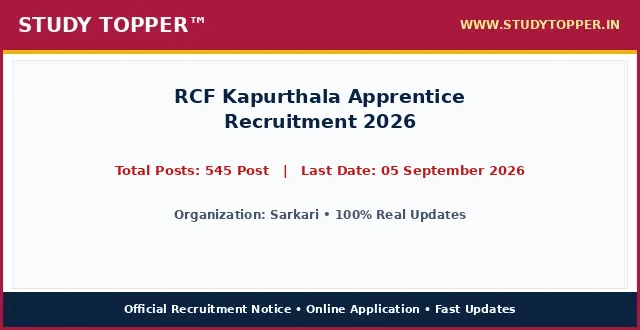
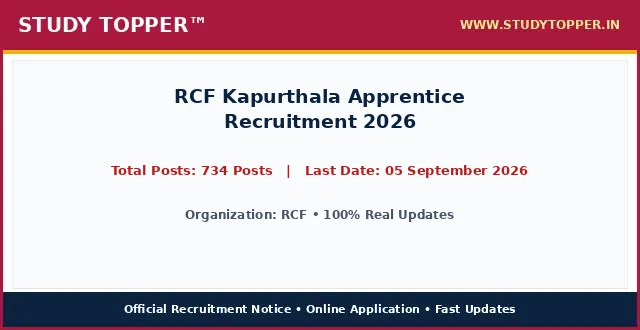
chore(lifecycle): daily auto-sort vacancies and update active dates

Changed region(s): [[0.1562, 0.4848, 0.8438, 0.5455], [0.25, 0.6364, 0.75, 0.6667]]

diff --git a/pages/rcf-kapurthala-apprentice-2026.html b/pages/rcf-kapurthala-apprentice-2026.html
@@ -987,12 +987,12 @@ ul.wp-block-latest-posts a:hover {
 <main class="site-main" id="main">
 <div class="gb-container gb-container-b39c368c">
 <h1 class="gb-headline gb-headline-e52a0102 gb-headline-text" style="font-size: 22px; font-weight: 700; color: #0000cd; text-align: left; margin: 8px 0 4px 0; line-height: 1.3; width: 100%; font-family: '-apple-system, BlinkMacSystemFont, 'Segoe UI', Roboto, 'Helvetica Neue', Arial, sans-serif', Times, serif, Hind, sans-serif;">RCF Kapurthala Apprentice Recruitment 2026</h1>
-<div class="gb-container gb-container-659bd175"><p style="color: #cd0808; font-weight: 700; font-size: 15px; margin: 2px 0 7px 0; text-align: left; font-family: '-apple-system, BlinkMacSystemFont, 'Segoe UI', Roboto, 'Helvetica Neue', Arial, sans-serif', Times, serif, Hind, sans-serif;">Post Date: August 22, 2026 11:48 AM</p></div>
-<p class="gb-headline gb-headline-550ae316 short_Details gb-headline-text" style="width: 100%; max-width: 100%; font-size: 16.8px; line-height: 1.55; color: #000000; text-align: justify; text-justify: inter-word; margin: 8px 0 14px 0; display: block; font-family: '-apple-system, BlinkMacSystemFont, 'Segoe UI', Roboto, 'Helvetica Neue', Arial, sans-serif', Times, serif, Hind, sans-serif;"><strong style="color: #0000cd;">Sarkari</strong> has officially published the recruitment notice <strong style="color: #cd0808;">RCF Kapurthala Apprentice Recruitment 2026</strong> under notification number Official Advt 2026. Online applications are invited for 545 Post across multiple departments and cadre positions. Interested candidates possessing the requisite educational qualifications and falling between 18 Years to 40 Years can complete their online registration before the application deadline of 05 September 2026. Applicants should read the eligibility criteria, category reservation rules, and exam scheme thoroughly before submitting applications.</p>
+<div class="gb-container gb-container-659bd175"><p style="color: #cd0808; font-weight: 700; font-size: 15px; margin: 2px 0 7px 0; text-align: left; font-family: '-apple-system, BlinkMacSystemFont, 'Segoe UI', Roboto, 'Helvetica Neue', Arial, sans-serif', Times, serif, Hind, sans-serif;">Post Date: August 22, 2026 12:41 PM</p></div>
+<p class="gb-headline gb-headline-550ae316 short_Details gb-headline-text" style="width: 100%; max-width: 100%; font-size: 16.8px; line-height: 1.55; color: #000000; text-align: justify; text-justify: inter-word; margin: 8px 0 14px 0; display: block; font-family: '-apple-system, BlinkMacSystemFont, 'Segoe UI', Roboto, 'Helvetica Neue', Arial, sans-serif', Times, serif, Hind, sans-serif;"><strong style="color: #0000cd;">RCF Kapurthala Apprentice</strong> has officially published the recruitment notice <strong style="color: #cd0808;">RCF Kapurthala Apprentice Recruitment 2026</strong> under notification number 2026. Online applications are invited for 734 Posts across multiple departments and cadre positions. Interested candidates possessing the requisite educational qualifications and falling between 18 Years to 40 Years can complete their online registration before the application deadline of 05 September 2026. Applicants should read the eligibility criteria, category reservation rules, and exam scheme thoroughly before submitting applications.</p>
 <div class="gb-container gb-container-9849916c"><div class="social-buttons-compact" style="display: flex; justify-content: flex-start; align-items: center; gap: 10px; margin: 10px 0 16px 0; width: 100%;"><a class="social-btn-compact wa" href="https://whatsapp.com/channel/0029Va9xyz" rel="noopener" style="background-color: #00d084; color: #ffffff; padding: 10px 18px; border-radius: 4px; text-decoration: none; font-weight: bold; font-size: 15.5px; display: inline-flex; align-items: center; justify-content: center; height: auto;" target="_blank">WhatsApp</a><a class="social-btn-compact tg" href="https://t.me/studytopperofficial" rel="noopener" style="background-color: #0088cc; color: #ffffff; padding: 10px 18px; border-radius: 4px; text-decoration: none; font-weight: bold; font-size: 15.5px; display: inline-flex; align-items: center; justify-content: center; height: auto;" target="_blank">Telegram</a></div></div>
 <div class="gb-container gb-container-f58e6ca1" style="border: 2px solid #5b032f; border-radius: 4px; overflow: hidden; margin: 15px 0 20px 0; background-color: #ffffff; width: 100%; box-sizing: border-box;">
 <h2 class="gb-headline gb-headline-2ca5a791 gb-headline-text" style="font-size: 16px; font-weight: 700; text-align: center; color: #ef0303; line-height: 1.3; padding: 6px 4px; margin: 0; background: #ffffff; font-family: '-apple-system, BlinkMacSystemFont, 'Segoe UI', Roboto, 'Helvetica Neue', Arial, sans-serif', Times, serif, Hind, sans-serif;">RCF Kapurthala Apprentice Recruitment 2026 &ndash; Latest Details &amp; Updates</h2>
-<h3 class="gb-headline gb-headline-7d5f86e8 gb-headline-text" style="font-size: 16px; font-weight: 600; text-align: center; color: #009703; line-height: 1.25; margin: 0; padding: 2px 4px 6px 4px; background: #ffffff; font-family: '-apple-system, BlinkMacSystemFont, 'Segoe UI', Roboto, 'Helvetica Neue', Arial, sans-serif', Times, serif, Hind, sans-serif;">Sarkari : Details &amp; Summary</h3>
+<h3 class="gb-headline gb-headline-7d5f86e8 gb-headline-text" style="font-size: 16px; font-weight: 600; text-align: center; color: #009703; line-height: 1.25; margin: 0; padding: 2px 4px 6px 4px; background: #ffffff; font-family: '-apple-system, BlinkMacSystemFont, 'Segoe UI', Roboto, 'Helvetica Neue', Arial, sans-serif', Times, serif, Hind, sans-serif;">RCF Kapurthala Apprentice : Details &amp; Summary</h3>
 <p class="gb-headline gb-headline-79adf169 gb-headline-text" style="margin: 0 0 6px 0; font-family: '-apple-system, BlinkMacSystemFont, 'Segoe UI', Roboto, 'Helvetica Neue', Arial, sans-serif', Times, serif, Hind, sans-serif; text-align: center; font-size: 18px; font-weight: 700;"><a href="/" style="color: #0000ff; text-decoration: underline;">StudyTopper.in</a></p>
 
 <style id="st-post-boxes-responsive-css">
@@ -1025,7 +1025,7 @@ ul.wp-block-latest-posts a:hover {
     <div style="background-color: #5b032f; color: #ffffff; padding: 8px 10px; font-size: 20px; font-weight: 700; text-align: center; font-family: '-apple-system, BlinkMacSystemFont, 'Segoe UI', Roboto, 'Helvetica Neue', Arial, sans-serif', Times, serif, Hind, sans-serif;">Important Dates</div>
     <div style="padding: 12px 14px; background-color: #ffffff;">
       <ul style="padding-left: 20px; margin: 0; list-style-type: disc; text-align: left; font-size: 14pt; line-height: 1.6; font-family: '-apple-system, BlinkMacSystemFont, 'Segoe UI', Roboto, 'Helvetica Neue', Arial, sans-serif', Times, serif, Hind, sans-serif;">
-        
+        <li><span style="font-size: 14pt;">Application Begin : <strong>As per Official Notification</strong></span></li><li><span style="font-size: 14pt;">Last Date for Apply Online : <span style="color: #ff0000;"><strong>05 September 2026</strong></span></span></li><li><span style="font-size: 14pt;">Pay Exam Fee Last Date : <span style="color: #ff0000;"><strong>05 September 2026</strong></span></span></li><li><span style="font-size: 14pt;">Exam Date : <strong>As per Schedule</strong></span></li><li><span style="font-size: 14pt;">Admit Card Available : <strong>Before Examination</strong></span></li>
       </ul>
     </div>
   </div>
@@ -1034,7 +1034,7 @@ ul.wp-block-latest-posts a:hover {
     <div style="background-color: #5b032f; color: #ffffff; padding: 8px 10px; font-size: 20px; font-weight: 700; text-align: center; font-family: '-apple-system, BlinkMacSystemFont, 'Segoe UI', Roboto, 'Helvetica Neue', Arial, sans-serif', Times, serif, Hind, sans-serif;">Application Fee</div>
     <div style="padding: 12px 14px; background-color: #ffffff;">
       <ul style="padding-left: 20px; margin: 0; list-style-type: disc; text-align: left; font-size: 14pt; line-height: 1.6; font-family: '-apple-system, BlinkMacSystemFont, 'Segoe UI', Roboto, 'Helvetica Neue', Arial, sans-serif', Times, serif, Hind, sans-serif;">
-        <li><span style="font-size: 14pt;">Bihar Police BPSSC Sub Inspector SI Prohibition Result 2026 Advt. No. : <strong>03/2026</strong></span></li><li><span style="font-size: 14pt;">UP Scholarship Online Form 2026 : <strong>2027</strong></span></li>
+        <li><span style="font-size: 14pt;">General / OBC / EWS : <strong>Check Official Notification</strong></span></li><li><span style="font-size: 14pt;">SC / ST / PH : <strong>Check Official Notification</strong></span></li><li><span style="font-size: 14pt;">Payment Mode : <strong>Online Fee Mode via Net Banking, Debit/Credit Card or Offline Challan</strong></span></li>
       </ul>
       <div style="margin-top: 10px; font-size: 14pt; line-height: 1.5; color: #000000; border-top: 1px dashed #ccc; padding-top: 8px; font-family: '-apple-system, BlinkMacSystemFont, 'Segoe UI', Roboto, 'Helvetica Neue', Arial, sans-serif', Times, serif, Hind, sans-serif;">
         <strong>Mode of Payment / Access:</strong> Online via Net Banking, Debit Card, Credit Card, UPI or Free Candidate Portal.
@@ -1047,10 +1047,10 @@ ul.wp-block-latest-posts a:hover {
 <div class="st-grid-row" style="display: flex; flex-wrap: wrap; width: 100%; border-top: 2px solid #5b032f; margin: 0; padding: 0; box-sizing: border-box;">
   <!-- Left Col: Age Limits -->
   <div class="st-col-half st-col-border-right" style="box-sizing: border-box; vertical-align: top;">
-    <div style="background-color: #046132; color: #ffffff; padding: 8px 10px; font-size: 17px; font-weight: 700; text-align: center; font-family: '-apple-system, BlinkMacSystemFont, 'Segoe UI', Roboto, 'Helvetica Neue', Arial, sans-serif', Times, serif, Hind, sans-serif;">Sarkari : Age Limits As On 01 August 2026</div>
+    <div style="background-color: #046132; color: #ffffff; padding: 8px 10px; font-size: 17px; font-weight: 700; text-align: center; font-family: '-apple-system, BlinkMacSystemFont, 'Segoe UI', Roboto, 'Helvetica Neue', Arial, sans-serif', Times, serif, Hind, sans-serif;">RCF Kapurthala Apprentice : Age Limits As On 01/08/2026</div>
     <div style="padding: 12px 14px; background-color: #ffffff;">
       <ul style="padding-left: 20px; margin: 0; list-style-type: disc; text-align: left; font-size: 14pt; line-height: 1.6; font-family: '-apple-system, BlinkMacSystemFont, 'Segoe UI', Roboto, 'Helvetica Neue', Arial, sans-serif', Times, serif, Hind, sans-serif;">
-        
+        <li><span style="font-size: 14pt;">Minimum Age : <strong>18 Years (As per post rules)</strong></span></li><li><span style="font-size: 14pt;">Maximum Age : <strong>40 Years (As per post rules)</strong></span></li><li><span style="font-size: 14pt;">Age Relaxation : <strong>Age Relaxation Extra as per RCF Recruitment Rules.</strong></span></li>
       </ul>
     </div>
   </div>
@@ -1058,7 +1058,7 @@ ul.wp-block-latest-posts a:hover {
   <div class="st-col-half" style="box-sizing: border-box; vertical-align: top;">
     <div style="background-color: #f53c00; color: #ffffff; padding: 8px 10px; font-size: 20px; font-weight: 700; text-align: center; font-family: '-apple-system, BlinkMacSystemFont, 'Segoe UI', Roboto, 'Helvetica Neue', Arial, sans-serif', Times, serif, Hind, sans-serif;">Total Post</div>
     <div style="padding: 24px 10px; background-color: #ffffff; text-align: center;">
-      <span style="font-size: 28px; font-weight: 800; color: #000000; font-family: '-apple-system, BlinkMacSystemFont, 'Segoe UI', Roboto, 'Helvetica Neue', Arial, sans-serif', Times, serif, Hind, sans-serif;">545 Post</span>
+      <span style="font-size: 28px; font-weight: 800; color: #000000; font-family: '-apple-system, BlinkMacSystemFont, 'Segoe UI', Roboto, 'Helvetica Neue', Arial, sans-serif', Times, serif, Hind, sans-serif;">734 Posts</span>
     </div>
   </div>
 </div>
@@ -1070,7 +1070,19 @@ ul.wp-block-latest-posts a:hover {
 <div class="gb-container gb-container-ec1f6e4c">
 <h2 class="gb-headline gb-headline-c7683bda gb-headline-text" style="font-size: 24px; font-weight: 800; text-align: center; color: #ef0303; line-height: 1.35; margin: 20px 0 12px 0; padding: 6px 4px; font-family: '-apple-system, BlinkMacSystemFont, 'Segoe UI', Roboto, 'Helvetica Neue', Arial, sans-serif', Times, serif, Hind, sans-serif;">RCF Kapurthala Apprentice Recruitment 2026 : Key Overview &amp; Matrix</h2>
 <div class="gb-headline gb-headline-60ccea19 gb-headline-text">
-
+<table style="border-collapse: collapse; width: 100%; height: 150px;">
+<tbody>
+<tr style="height: 25px;">
+<td colspan="2" style="width: 50%; text-align: center; height: 25px;"><span style="background-color: #000080; color: #ffffff; font-size: 14pt;"><strong> RCF Kapurthala Apprentice : Category Wise Vacancy Details </strong></span></td>
+</tr>
+<tr style="height: 25px;">
+<td style="width: 50%; height: 25px; text-align: center;"><span style="font-size: 14pt;"><strong>Category / Particulars</strong></span></td>
+<td style="width: 50%; height: 25px; text-align: center;"><span style="font-size: 14pt;"><strong>Count / Status</strong></span></td>
+</tr>
+<tr><td style="text-align: center;">General</td><td style="text-align: center; font-weight: normal; color: inherit;">368</td></tr><tr><td style="text-align: center;">OBC</td><td style="text-align: center; font-weight: normal; color: inherit;">198</td></tr><tr><td style="text-align: center;">SC</td><td style="text-align: center; font-weight: normal; color: inherit;">111</td></tr><tr><td style="text-align: center;">ST</td><td style="text-align: center; font-weight: normal; color: inherit;">57</td></tr>
+</tbody>
+</table>
+<p>&nbsp;</p>
 <table style="border-collapse: collapse; width: 100%;">
 <tbody>
 <tr>
@@ -1079,9 +1091,9 @@ ul.wp-block-latest-posts a:hover {
 <th style="background-color: #f53c00; color: #ffffff; padding: 6px 10px; text-align: center; border: 1px solid #d35400; font-size: 15px; font-weight: 700; font-family: '-apple-system, BlinkMacSystemFont, 'Segoe UI', Roboto, 'Helvetica Neue', Arial, sans-serif', Times, serif, Hind, sans-serif;">Eligibility Criteria</th>
 </tr>
 <tr>
-<td style="padding: 8px; border: 1px solid #ddd; font-weight: bold;">Sarkari Recruitment</td>
-<td style="padding: 8px; border: 1px solid #ddd; text-align: center; font-weight: bold;">545 Post</td>
-<td style="padding: 8px; border: 1px solid #ddd;">Please refer to the official notification linked below for detailed educational qualifications.</td>
+<td style="padding: 8px; border: 1px solid #ddd; font-weight: bold;">RCF RCF Kapurthala Apprentice Recruitment 2026</td>
+<td style="padding: 8px; border: 1px solid #ddd; text-align: center; font-weight: bold;">734 Posts</td>
+<td style="padding: 8px; border: 1px solid #ddd;">Passed relevant Educational Qualification from Any Recognized Board / University in India. Read full official notification for post-wise details.</td>
 </tr>
 </tbody>
 </table>
@@ -1093,10 +1105,10 @@ ul.wp-block-latest-posts a:hover {
 <table style="border-collapse: collapse; width: 100%;">
 <tbody>
 <tr>
-<td style="width: 100%; text-align: center;"><span style="background-color: #000080; color: #ffffff; font-size: 14pt; font-weight: bold; display: block; padding: 6px;"> How to Fill Sarkari Online Application Form </span></td>
+<td style="width: 100%; text-align: center;"><span style="background-color: #000080; color: #ffffff; font-size: 14pt; font-weight: bold; display: block; padding: 6px;"> How to Fill RCF Kapurthala Apprentice Online Application Form </span></td>
 </tr>
 <tr>
-<td style="width: 100%;"><ol style="margin:0; padding-left:18px; text-align: left !important; list-style-position: outside !important"><li style="margin-bottom:6px; text-align: left !important;">Read the official recruitment notification carefully before applying.</li><li style="margin-bottom:6px; text-align: left !important;">Keep all basic documents ready: ID Proof, Address Details, Basic Details.</li><li style="margin-bottom:6px; text-align: left !important;">Ready your scanned documents like Photo, Signature, ID Proof, etc.</li><li style="margin-bottom:6px; text-align: left !important;">Click on the 'Apply Online' link given in the Important Links section below.</li><li style="margin-bottom:6px; text-align: left !important;">Fill out all the columns in the application form accurately.</li><li style="margin-bottom:6px; text-align: left !important;">Pay the required application fee if applicable.</li><li style="margin-bottom:6px; text-align: left !important;">Take a printout of the final submitted application form.</li><li style="margin-bottom:6px; text-align: left !important;">Resize candidate photograph and signature accurately using the <a href="https://indtool.in" rel="noopener" target="_blank"><strong>StudyTopper Tools</strong></a> image resizer at indtool.in.</li></ol></td>
+<td style="width: 100%;"><ol style="margin:0; padding-left:18px; text-align: left !important; list-style-position: outside !important"><li style="margin-bottom:6px; text-align: left !important;">Candidate must read the complete official notification issued by RCF before applying.</li><li style="margin-bottom:6px; text-align: left !important;">Collect and verify all essential documents including Educational Proof, ID Proof, Address Details, and Basic Details.</li><li style="margin-bottom:6px; text-align: left !important;">Scan all necessary documents accurately: Passport Size Photograph, Signature, ID Proof, and Category Certificate.</li><li style="margin-bottom:6px; text-align: left !important;">Click on the 'Apply Online' link given in the Important Links section below on StudyTopper.</li><li style="margin-bottom:6px; text-align: left !important;">Fill all required personal, educational, and communication details in the application form carefully.</li><li style="margin-bottom:6px; text-align: left !important;">Review the application form preview thoroughly before final submission.</li><li style="margin-bottom:6px; text-align: left !important;">Pay the prescribed examination fee through online payment gateway if applicable.</li><li style="margin-bottom:6px; text-align: left !important;">Take a clean printout of the final submitted application form for future reference.</li><li style="margin-bottom:6px; text-align: left !important;">Resize candidate photograph and signature accurately using the <a href="https://indtool.in" rel="noopener" target="_blank"><strong>StudyTopper Tools</strong></a> image resizer at indtool.in.</li></ol></td>
 </tr>
 </tbody>
 </table>
@@ -1104,7 +1116,7 @@ ul.wp-block-latest-posts a:hover {
 <table style="border-collapse: collapse; width: 100%;">
 <tbody>
 <tr>
-<td style="width: 100%; text-align: center;"><span style="background-color: #000080; color: #ffffff; font-size: 14pt;"><strong><span style="color: #ffffff;"> Sarkari Recruitment 2026 : Mode Of Selection </span></strong></span></td>
+<td style="width: 100%; text-align: center;"><span style="background-color: #000080; color: #ffffff; font-size: 14pt;"><strong><span style="color: #ffffff;"> RCF Kapurthala Apprentice Recruitment 2026 : Mode Of Selection </span></strong></span></td>
 </tr>
 <tr>
 <td style="width: 100%;">
@@ -1144,10 +1156,26 @@ ul.wp-block-latest-posts a:hover {
 
 <tr style="border-bottom: 1px solid #000000; background-color: #fff37a;">
 <td style="width: 50%; padding: 14px 16px; border-right: 1px solid #000000; text-align: center;">
+<span style="font-size: 19px; font-weight: 800; color: #000000; font-family: '-apple-system, BlinkMacSystemFont, 'Segoe UI', Roboto, 'Helvetica Neue', Arial, sans-serif', Times, serif, Hind, sans-serif;">Join Our WhatsApp Channel</span>
+</td>
+<td style="width: 50%; padding: 14px 16px; text-align: center;">
+<span style="font-size: 20px; font-weight: 800; font-family: '-apple-system, BlinkMacSystemFont, 'Segoe UI', Roboto, 'Helvetica Neue', Arial, sans-serif', Times, serif, Hind, sans-serif;"><a href="https://whatsapp.com/channel/0029VaAbQf01NCrYADMLt00L" aria-label="Click Here for Join Our WhatsApp Channel - RCF Kapurthala Apprentice Recruitment 2026" rel="noopener noreferrer" style="color: #0000ef; font-weight: 800; text-decoration: none;" target="_blank">Click Here</a></span>
+</td>
+</tr>
+<tr style="border-bottom: 1px solid #000000; background-color: #fff37a;">
+<td style="width: 50%; padding: 14px 16px; border-right: 1px solid #000000; text-align: center;">
+<span style="font-size: 19px; font-weight: 800; color: #000000; font-family: '-apple-system, BlinkMacSystemFont, 'Segoe UI', Roboto, 'Helvetica Neue', Arial, sans-serif', Times, serif, Hind, sans-serif;">Join Our Telegram Channel</span>
+</td>
+<td style="width: 50%; padding: 14px 16px; text-align: center;">
+<span style="font-size: 20px; font-weight: 800; font-family: '-apple-system, BlinkMacSystemFont, 'Segoe UI', Roboto, 'Helvetica Neue', Arial, sans-serif', Times, serif, Hind, sans-serif;"><a href="https://t.me/SarkariExam_info" aria-label="Click Here for Join Our Telegram Channel - RCF Kapurthala Apprentice Recruitment 2026" rel="noopener noreferrer" style="color: #0000ef; font-weight: 800; text-decoration: none;" target="_blank">Click Here</a></span>
+</td>
+</tr>
+<tr style="border-bottom: 1px solid #000000; background-color: #fff37a;">
+<td style="width: 50%; padding: 14px 16px; border-right: 1px solid #000000; text-align: center;">
 <span style="font-size: 19px; font-weight: 800; color: #000000; font-family: '-apple-system, BlinkMacSystemFont, 'Segoe UI', Roboto, 'Helvetica Neue', Arial, sans-serif', Times, serif, Hind, sans-serif;">Apply Online Link</span>
 </td>
 <td style="width: 50%; padding: 14px 16px; text-align: center;">
-<span style="font-size: 20px; font-weight: 800; font-family: '-apple-system, BlinkMacSystemFont, 'Segoe UI', Roboto, 'Helvetica Neue', Arial, sans-serif', Times, serif, Hind, sans-serif;"><a href="https://www.sarkariresult.com/2026/mpesb-group2-subgroup-4-aug26/" aria-label="Click Here for Apply Online Link - RCF Kapurthala Apprentice Recruitment 2026" rel="noopener noreferrer" style="color: #0000ef; font-weight: 800; text-decoration: none;" target="_blank">Click Here</a></span>
+<span style="font-size: 20px; font-weight: 800; font-family: '-apple-system, BlinkMacSystemFont, 'Segoe UI', Roboto, 'Helvetica Neue', Arial, sans-serif', Times, serif, Hind, sans-serif;"><a href="https://pardarsy.railnet.gov.in/apprentice-2026/" aria-label="Click Here for Apply Online Link - RCF Kapurthala Apprentice Recruitment 2026" rel="noopener noreferrer" style="color: #0000ef; font-weight: 800; text-decoration: none;" target="_blank">Click Here</a></span>
 </td>
 </tr>
 <tr style="border-bottom: 1px solid #000000; background-color: #fff37a;">
@@ -1155,15 +1183,7 @@ ul.wp-block-latest-posts a:hover {
 <span style="font-size: 19px; font-weight: 800; color: #000000; font-family: '-apple-system, BlinkMacSystemFont, 'Segoe UI', Roboto, 'Helvetica Neue', Arial, sans-serif', Times, serif, Hind, sans-serif;">Check Official Notification</span>
 </td>
 <td style="width: 50%; padding: 14px 16px; text-align: center;">
-<span style="font-size: 20px; font-weight: 800; font-family: '-apple-system, BlinkMacSystemFont, 'Segoe UI', Roboto, 'Helvetica Neue', Arial, sans-serif', Times, serif, Hind, sans-serif;"><a href="" aria-label="Click Here for Check Official Notification - RCF Kapurthala Apprentice Recruitment 2026" rel="noopener noreferrer" style="color: #0000ef; font-weight: 800; text-decoration: none;" target="_blank">Click Here</a></span>
-</td>
-</tr>
-<tr style="border-bottom: 1px solid #000000; background-color: #fff37a;">
-<td style="width: 50%; padding: 14px 16px; border-right: 1px solid #000000; text-align: center;">
-<span style="font-size: 19px; font-weight: 800; color: #000000; font-family: '-apple-system, BlinkMacSystemFont, 'Segoe UI', Roboto, 'Helvetica Neue', Arial, sans-serif', Times, serif, Hind, sans-serif;">Photo / Sign Resizer Tool</span>
-</td>
-<td style="width: 50%; padding: 14px 16px; text-align: center;">
-<span style="font-size: 20px; font-weight: 800; font-family: '-apple-system, BlinkMacSystemFont, 'Segoe UI', Roboto, 'Helvetica Neue', Arial, sans-serif', Times, serif, Hind, sans-serif;"><a href="https://indtool.in" aria-label="Click Here for Photo / Sign Resizer Tool - RCF Kapurthala Apprentice Recruitment 2026" rel="noopener noreferrer" style="color: #0000ef; font-weight: 800; text-decoration: none;" target="_blank">Click Here</a></span>
+<span style="font-size: 20px; font-weight: 800; font-family: '-apple-system, BlinkMacSystemFont, 'Segoe UI', Roboto, 'Helvetica Neue', Arial, sans-serif', Times, serif, Hind, sans-serif;"><a href="https://rcf.indianrailways.gov.in/uploads/files/act-app/not-act-app-2026.pdf" aria-label="Click Here for Check Official Notification - RCF Kapurthala Apprentice Recruitment 2026" rel="noopener noreferrer" style="color: #0000ef; font-weight: 800; text-decoration: none;" target="_blank">Click Here</a></span>
 </td>
 </tr>
 <tr style="border-bottom: 1px solid #000000; background-color: #fff37a;">
@@ -1171,15 +1191,55 @@ ul.wp-block-latest-posts a:hover {
 <span style="font-size: 19px; font-weight: 800; color: #000000; font-family: '-apple-system, BlinkMacSystemFont, 'Segoe UI', Roboto, 'Helvetica Neue', Arial, sans-serif', Times, serif, Hind, sans-serif;">Check Sarkari Result</span>
 </td>
 <td style="width: 50%; padding: 14px 16px; text-align: center;">
-<span style="font-size: 20px; font-weight: 800; font-family: '-apple-system, BlinkMacSystemFont, 'Segoe UI', Roboto, 'Helvetica Neue', Arial, sans-serif', Times, serif, Hind, sans-serif;"><a href="/" aria-label="Click Here for Check Sarkari Result - RCF Kapurthala Apprentice Recruitment 2026" rel="noopener noreferrer" style="color: #0000ef; font-weight: 800; text-decoration: none;" >Click Here</a></span>
+<span style="font-size: 20px; font-weight: 800; font-family: '-apple-system, BlinkMacSystemFont, 'Segoe UI', Roboto, 'Helvetica Neue', Arial, sans-serif', Times, serif, Hind, sans-serif;"><a href="https://sarkariresult.com.cm/" aria-label="Click Here for Check Sarkari Result - RCF Kapurthala Apprentice Recruitment 2026" rel="noopener noreferrer" style="color: #0000ef; font-weight: 800; text-decoration: none;" target="_blank">Click Here</a></span>
+</td>
+</tr>
+<tr style="border-bottom: 1px solid #000000; background-color: #fff37a;">
+<td style="width: 50%; padding: 14px 16px; border-right: 1px solid #000000; text-align: center;">
+<span style="font-size: 19px; font-weight: 800; color: #000000; font-family: '-apple-system, BlinkMacSystemFont, 'Segoe UI', Roboto, 'Helvetica Neue', Arial, sans-serif', Times, serif, Hind, sans-serif;">RCF Official Website</span>
+</td>
+<td style="width: 50%; padding: 14px 16px; text-align: center;">
+<span style="font-size: 20px; font-weight: 800; font-family: '-apple-system, BlinkMacSystemFont, 'Segoe UI', Roboto, 'Helvetica Neue', Arial, sans-serif', Times, serif, Hind, sans-serif;"><a href="http://www.rcf.indianrailways.gov.in/" aria-label="Click Here for RCF Official Website - RCF Kapurthala Apprentice Recruitment 2026" rel="noopener noreferrer" style="color: #0000ef; font-weight: 800; text-decoration: none;" target="_blank">Click Here</a></span>
+</td>
+</tr>
+<tr style="border-bottom: 1px solid #000000; background-color: #fff37a;">
+<td style="width: 50%; padding: 14px 16px; border-right: 1px solid #000000; text-align: center;">
+<span style="font-size: 19px; font-weight: 800; color: #000000; font-family: '-apple-system, BlinkMacSystemFont, 'Segoe UI', Roboto, 'Helvetica Neue', Arial, sans-serif', Times, serif, Hind, sans-serif;">Latest Posts Haryana HTET Score Card 2026 – Out SSC Delhi Police Constable (Executive) PE & MT Notice 2026 UPSC CDS-II Final Result With Marks 2026 IDBI JAM Final Result 2026 Railway RRB ALP Application Status 2026 – Out</span>
+</td>
+<td style="width: 50%; padding: 14px 16px; text-align: center;">
+<span style="font-size: 20px; font-weight: 800; font-family: '-apple-system, BlinkMacSystemFont, 'Segoe UI', Roboto, 'Helvetica Neue', Arial, sans-serif', Times, serif, Hind, sans-serif;"><a href="https://sarkariresult.com.cm/ssc-delhi-police-constable-executive-2026/" aria-label="Click Here for Latest Posts Haryana HTET Score Card 2026 – Out SSC Delhi Police Constable (Executive) PE & MT Notice 2026 UPSC CDS-II Final Result With Marks 2026 IDBI JAM Final Result 2026 Railway RRB ALP Application Status 2026 – Out - RCF Kapurthala Apprentice Recruitment 2026" rel="noopener noreferrer" style="color: #0000ef; font-weight: 800; text-decoration: none;" target="_blank">Click Here</a></span>
+</td>
+</tr>
+<tr style="border-bottom: 1px solid #000000; background-color: #fff37a;">
+<td style="width: 50%; padding: 14px 16px; border-right: 1px solid #000000; text-align: center;">
+<span style="font-size: 19px; font-weight: 800; color: #000000; font-family: '-apple-system, BlinkMacSystemFont, 'Segoe UI', Roboto, 'Helvetica Neue', Arial, sans-serif', Times, serif, Hind, sans-serif;">Latest Posts Haryana HTET Score Card 2026 – Out SSC Delhi Police Constable (Executive) PE & MT Notice 2026 UPSC CDS-II Final Result With Marks 2026 IDBI JAM Final Result 2026 Railway RRB ALP Application Status 2026 – Out</span>
+</td>
+<td style="width: 50%; padding: 14px 16px; text-align: center;">
+<span style="font-size: 20px; font-weight: 800; font-family: '-apple-system, BlinkMacSystemFont, 'Segoe UI', Roboto, 'Helvetica Neue', Arial, sans-serif', Times, serif, Hind, sans-serif;"><a href="https://sarkariresult.com.cm/ssc-selection-phase-14-2026/" aria-label="Click Here for Latest Posts Haryana HTET Score Card 2026 – Out SSC Delhi Police Constable (Executive) PE & MT Notice 2026 UPSC CDS-II Final Result With Marks 2026 IDBI JAM Final Result 2026 Railway RRB ALP Application Status 2026 – Out - RCF Kapurthala Apprentice Recruitment 2026" rel="noopener noreferrer" style="color: #0000ef; font-weight: 800; text-decoration: none;" target="_blank">Click Here</a></span>
+</td>
+</tr>
+<tr style="border-bottom: 1px solid #000000; background-color: #fff37a;">
+<td style="width: 50%; padding: 14px 16px; border-right: 1px solid #000000; text-align: center;">
+<span style="font-size: 19px; font-weight: 800; color: #000000; font-family: '-apple-system, BlinkMacSystemFont, 'Segoe UI', Roboto, 'Helvetica Neue', Arial, sans-serif', Times, serif, Hind, sans-serif;">Latest Posts Haryana HTET Score Card 2026 – Out SSC Delhi Police Constable (Executive) PE & MT Notice 2026 UPSC CDS-II Final Result With Marks 2026 IDBI JAM Final Result 2026 Railway RRB ALP Application Status 2026 – Out</span>
+</td>
+<td style="width: 50%; padding: 14px 16px; text-align: center;">
+<span style="font-size: 20px; font-weight: 800; font-family: '-apple-system, BlinkMacSystemFont, 'Segoe UI', Roboto, 'Helvetica Neue', Arial, sans-serif', Times, serif, Hind, sans-serif;"><a href="https://sarkariresult.com.cm/upsssc-stenographer-2025/" aria-label="Click Here for Latest Posts Haryana HTET Score Card 2026 – Out SSC Delhi Police Constable (Executive) PE & MT Notice 2026 UPSC CDS-II Final Result With Marks 2026 IDBI JAM Final Result 2026 Railway RRB ALP Application Status 2026 – Out - RCF Kapurthala Apprentice Recruitment 2026" rel="noopener noreferrer" style="color: #0000ef; font-weight: 800; text-decoration: none;" target="_blank">Click Here</a></span>
+</td>
+</tr>
+<tr style="border-bottom: 1px solid #000000; background-color: #fff37a;">
+<td style="width: 50%; padding: 14px 16px; border-right: 1px solid #000000; text-align: center;">
+<span style="font-size: 19px; font-weight: 800; color: #000000; font-family: '-apple-system, BlinkMacSystemFont, 'Segoe UI', Roboto, 'Helvetica Neue', Arial, sans-serif', Times, serif, Hind, sans-serif;">Latest Posts Haryana HTET Score Card 2026 – Out SSC Delhi Police Constable (Executive) PE & MT Notice 2026 UPSC CDS-II Final Result With Marks 2026 IDBI JAM Final Result 2026 Railway RRB ALP Application Status 2026 – Out</span>
+</td>
+<td style="width: 50%; padding: 14px 16px; text-align: center;">
+<span style="font-size: 20px; font-weight: 800; font-family: '-apple-system, BlinkMacSystemFont, 'Segoe UI', Roboto, 'Helvetica Neue', Arial, sans-serif', Times, serif, Hind, sans-serif;"><a href="https://sarkariresult.com.cm/railway-rrb-group-d-level-1-recruitment-2026-online/" aria-label="Click Here for Latest Posts Haryana HTET Score Card 2026 – Out SSC Delhi Police Constable (Executive) PE & MT Notice 2026 UPSC CDS-II Final Result With Marks 2026 IDBI JAM Final Result 2026 Railway RRB ALP Application Status 2026 – Out - RCF Kapurthala Apprentice Recruitment 2026" rel="noopener noreferrer" style="color: #0000ef; font-weight: 800; text-decoration: none;" target="_blank">Click Here</a></span>
 </td>
 </tr>
 <tr style=" background-color: #fff37a;">
 <td style="width: 50%; padding: 14px 16px; border-right: 1px solid #000000; text-align: center;">
-<span style="font-size: 19px; font-weight: 800; color: #000000; font-family: '-apple-system, BlinkMacSystemFont, 'Segoe UI', Roboto, 'Helvetica Neue', Arial, sans-serif', Times, serif, Hind, sans-serif;">Sarkari Website</span>
+<span style="font-size: 19px; font-weight: 800; color: #000000; font-family: '-apple-system, BlinkMacSystemFont, 'Segoe UI', Roboto, 'Helvetica Neue', Arial, sans-serif', Times, serif, Hind, sans-serif;">Latest Posts Haryana HTET Score Card 2026 – Out SSC Delhi Police Constable (Executive) PE & MT Notice 2026 UPSC CDS-II Final Result With Marks 2026 IDBI JAM Final Result 2026 Railway RRB ALP Application Status 2026 – Out</span>
 </td>
 <td style="width: 50%; padding: 14px 16px; text-align: center;">
-<span style="font-size: 20px; font-weight: 800; font-family: '-apple-system, BlinkMacSystemFont, 'Segoe UI', Roboto, 'Helvetica Neue', Arial, sans-serif', Times, serif, Hind, sans-serif;"><a href="" aria-label="Click Here for Sarkari Website - RCF Kapurthala Apprentice Recruitment 2026" rel="noopener noreferrer" style="color: #0000ef; font-weight: 800; text-decoration: none;" target="_blank">Click Here</a></span>
+<span style="font-size: 20px; font-weight: 800; font-family: '-apple-system, BlinkMacSystemFont, 'Segoe UI', Roboto, 'Helvetica Neue', Arial, sans-serif', Times, serif, Hind, sans-serif;"><a href="https://sarkariresult.com.cm/uppsc-gic-lecturer-2025/" aria-label="Click Here for Latest Posts Haryana HTET Score Card 2026 – Out SSC Delhi Police Constable (Executive) PE & MT Notice 2026 UPSC CDS-II Final Result With Marks 2026 IDBI JAM Final Result 2026 Railway RRB ALP Application Status 2026 – Out - RCF Kapurthala Apprentice Recruitment 2026" rel="noopener noreferrer" style="color: #0000ef; font-weight: 800; text-decoration: none;" target="_blank">Click Here</a></span>
 </td>
 </tr>
 </tbody>
@@ -1193,9 +1253,9 @@ ul.wp-block-latest-posts a:hover {
   <div style="font-size: 14.5px; line-height: 1.65; color: #222222;">
     <p style="margin: 0 0 4px 0;"><strong style="color: #000080;">Q1. What is the last date to apply for RCF Kapurthala Apprentice Recruitment 2026?</strong></p>
 <p style="margin: 0 0 16px 0; color: #333333; line-height: 1.6;">Ans. The last date for online submission of application is 05 September 2026.</p><p style="margin: 0 0 4px 0;"><strong style="color: #000080;">Q2. What is the age limit for RCF Kapurthala Apprentice Recruitment 2026?</strong></p>
-<p style="margin: 0 0 16px 0; color: #333333; line-height: 1.6;">Ans. Candidate age should generally be between 18 Years and 40 Years as on 01 August 2026. Age relaxation is applicable per rules.</p><p style="margin: 0 0 4px 0;"><strong style="color: #000080;">Q3. What is the application fee for RCF Kapurthala Apprentice Recruitment 2026?</strong></p>
-<p style="margin: 0 0 16px 0; color: #333333; line-height: 1.6;">Ans. Application fee varies by category (e.g., General/OBC: Rs. 100/-, SC/ST/PwD: Exempted).</p><p style="margin: 0 0 4px 0;"><strong style="color: #000080;">Q4. How many total posts are available in RCF Kapurthala Apprentice Recruitment 2026?</strong></p>
-<p style="margin: 0 0 16px 0; color: #333333; line-height: 1.6;">Ans. A total of 545 Post have been officially announced for this recruitment drive.</p><p style="margin: 0 0 4px 0;"><strong style="color: #000080;">Q5. How can I apply online for RCF Kapurthala Apprentice Recruitment 2026?</strong></p>
+<p style="margin: 0 0 16px 0; color: #333333; line-height: 1.6;">Ans. Candidate age should generally be between 18 Years and 40 Years as on 01/08/2026. Age relaxation is applicable per rules.</p><p style="margin: 0 0 4px 0;"><strong style="color: #000080;">Q3. What is the application fee for RCF Kapurthala Apprentice Recruitment 2026?</strong></p>
+<p style="margin: 0 0 16px 0; color: #333333; line-height: 1.6;">Ans. Application fee varies by category (e.g., General/OBC: Check Official Notification, SC/ST/PwD: Exempted).</p><p style="margin: 0 0 4px 0;"><strong style="color: #000080;">Q4. How many total posts are available in RCF Kapurthala Apprentice Recruitment 2026?</strong></p>
+<p style="margin: 0 0 16px 0; color: #333333; line-height: 1.6;">Ans. A total of 734 Posts have been officially announced for this recruitment drive.</p><p style="margin: 0 0 4px 0;"><strong style="color: #000080;">Q5. How can I apply online for RCF Kapurthala Apprentice Recruitment 2026?</strong></p>
 <p style="margin: 0 0 0 0; color: #333333; line-height: 1.6;">Ans. Eligible candidates can click the 'Apply Online' link in the Important Links table, register, fill details, resize photo/signature via indtool.in, and submit before 05 September 2026.</p>
   </div>
 </div>
